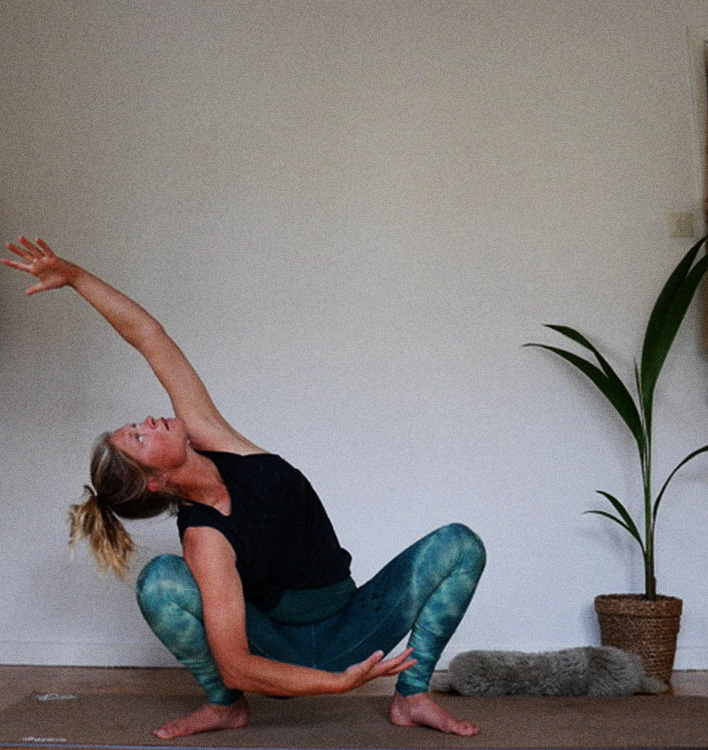
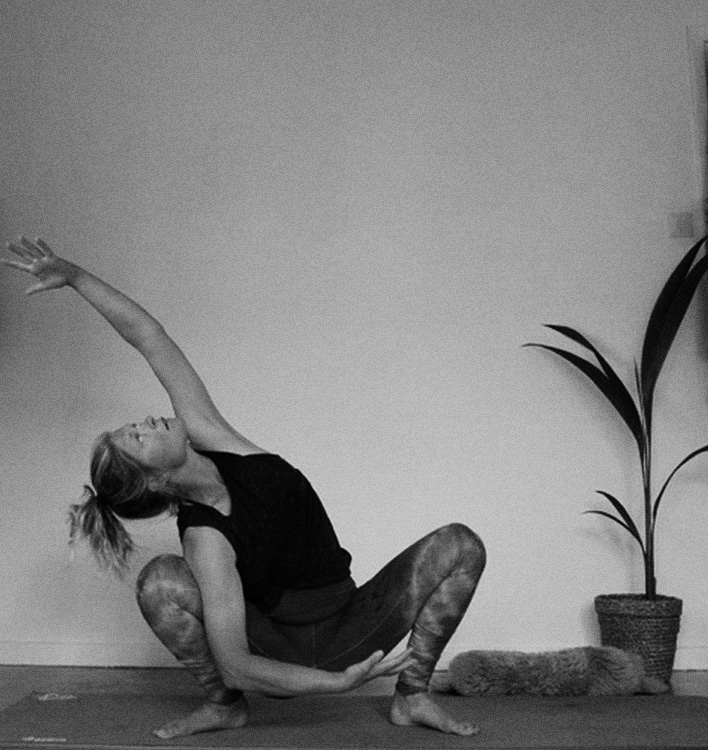
ändrat bilder till svartvitt

diff --git a/src/style/_base.scss b/src/style/_base.scss
@@ -8,12 +8,12 @@ $secondaryBrandColor: #51B4BC;
 // general
 @font-face {
     font-family: migraBold;
-    src: url("/public/fonts/Migra\ Extrabold\ 800.otf");
+    src: url("./fonts/Migra\ Extrabold\ 800.otf");
 }
 
 @font-face {
     font-family: migraLight;
-    src: url("/public/fonts/Migra\ Extralight\ 200.otf");
+    src: url("./fonts/Migra\ Extralight\ 200.otf");
 }
 
 html{
@@ -122,7 +122,7 @@ button{
 
 header{
     min-height: 100vh;
-    background-image: url("/images/updog.jpeg");
+    background-image: url("/images/updog.jpg");
     background-position: center;
     background-size: cover;
     background-attachment: fixed;
@@ -311,7 +311,7 @@ header{
 
     .background-image-2{
         height: 200px;
-        background-image: url("/images/yoga_class.jpeg");
+        background-image: url("/images/class.jpg");
         background-position: center;
     }
 
@@ -364,13 +364,13 @@ header{
     
     .background-image-3{
         height: 200px;
-        background-image: url("/images/squat.jpg");
+        background-image: url("./images/squat.jpg");
         background-position: left;
     }
 
     .background-image-4{
         height: 200px;
-        background-image: url("/images/massage.jpeg");
+        background-image: url("./images/massage.jpg");
         background-position: center;
     }
 
@@ -413,8 +413,13 @@ header{
         font-size: 3rem;
         transform: translateY(-50%);
         padding: 0;
-        opacity: 0.7;
+        opacity: 0.5;
         color: white;
+        transition: opacity .3s;
+
+        &:hover{
+            opacity: 1;
+        }
     }
 
     .next-btn{
